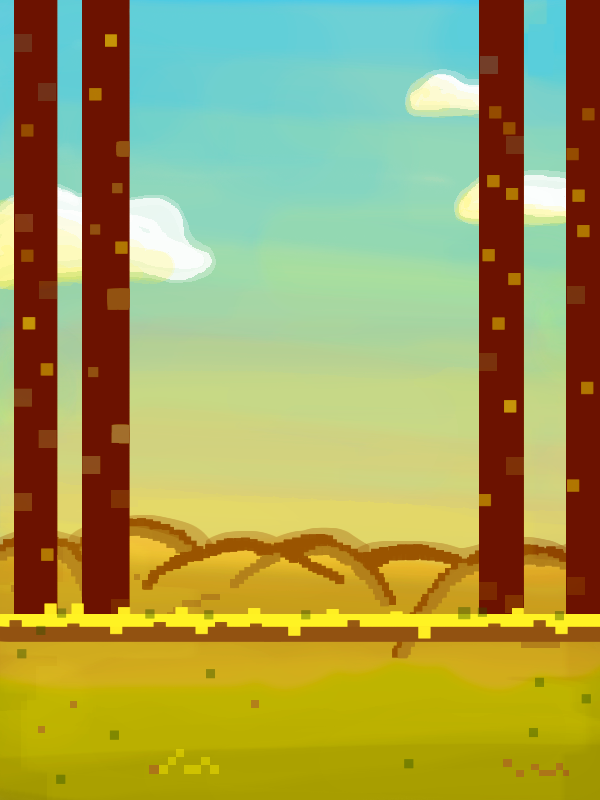
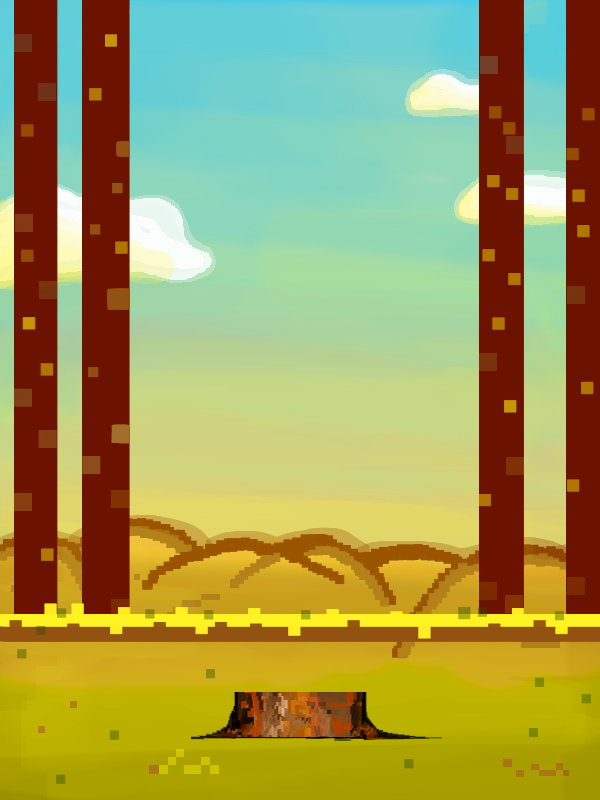
Значительные изменения

Changed region(s): [[0.33, 0.8438, 0.72, 0.9375]]

diff --git a/mainwindow.cpp b/mainwindow.cpp
@@ -13,7 +13,7 @@ MainWindow::MainWindow(QWidget *parent)
     setFixedSize(650, 950);     // фиксируем окно, чтобы было проще с координатами
     timerPaint=new QTimer;
     connect(timerPaint,SIGNAL(timeout()),this,SLOT(Update()));
-    timerPaint->setInterval(0.00000000005);
+    timerPaint->setInterval(20);
     timerPaint->start();
     timberman = new Timberman(980);
     tree=new Tree(650,980);
@@ -32,72 +32,22 @@ void MainWindow::keyPressEvent(QKeyEvent *event)
     {
         switch(event->key()){
             case (Qt::Key_Left):{
-                cut_left();
+                LeftORRight=true;
+                ProvGameOver();
+                tree->deleteTrunk(LeftORRight);
+                ProvGameOver();
                 break;
             }
             case (Qt::Key_Right):{
-                cut_right();
+                LeftORRight=false;
+                ProvGameOver();
+                tree->deleteTrunk(LeftORRight);
+                ProvGameOver();
                 break;
             }
         }
-        ProvGameOver();
-        tree->deleteTrunk();
-        ProvGameOver();
         repaint();
     }
-}
-
-void MainWindow::cut_left()
-{
-    LeftORRight=true;
-//    перемещаемся влево
-//    QThread::msleep(100) здесь и далее - задержка в 100 мсек, чтобы действие было заметно
-//    (можно еще уменьшить)
-    timberman->setIm(QPixmap(":/images/drovosek1_lev.png"));
-    timberman->setX(timberman->getIm().width()-indentTree);
-    repaint();
-    QThread::msleep(interval);
-
-//    замахиваемся
-    timberman->setIm(QPixmap(":/images/drovosek2_lev.png"));
-    repaint();
-    QThread::msleep(interval);
-
-//    рубим
-    timberman->setIm(QPixmap(":/images/drovosek3_lev.png"));
-    repaint();
-    QThread::msleep(interval);
-
-//    исходное состояние
-    timberman->setIm(QPixmap(":/images/drovosek1_lev.png"));
-    repaint();
-
-}
-
-void MainWindow::cut_right()
-{
-    LeftORRight=false;
-//    перемещаемся вправо
-//    вычитаем 3 ширины картики(т.к пока она 110*110) т.е -330
-    timberman->setIm(QPixmap(":/images/drovosek1_prav.png"));
-    timberman->setX(MainWindow::size().width() - 3*timberman->getIm().width()+indentTree);
-    repaint();
-    QThread::msleep(interval);
-
-//    замахиваемся
-    timberman->setIm(QPixmap(":/images/drovosek2_prav.png"));
-    repaint();
-    QThread::msleep(interval);
-
-//    рубим
-    timberman->setIm(QPixmap(":/images/drovosek3_prav.png"));
-    repaint();
-    QThread::msleep(interval);
-
-//    исходное положение
-    timberman->setIm(QPixmap(":/images/drovosek1_prav.png"));
-    repaint();
-
 }
 
 void MainWindow::paintEvent(QPaintEvent *event)
@@ -118,6 +68,7 @@ void MainWindow::ProvGameOver()
             {
                 qDebug("game over  %d",++gameOver);
                 timberman->setIm(QPixmap(":Rip/Images/rip_lev.png"));
+                timerPaint->stop();
             }
             break;
         }
@@ -127,6 +78,7 @@ void MainWindow::ProvGameOver()
             {
                 qDebug("game over  %d",++gameOver);
                 timberman->setIm(QPixmap(":Rip/Images/rip_prav.png"));
+                timerPaint->stop();
             }
             break;
         }
@@ -135,6 +87,80 @@ void MainWindow::ProvGameOver()
 
 void MainWindow::Update()
 {
+    if (tree->getRybTree())
+    {
+        if (LeftORRight)
+        {
+            switch(timberman->getSost())
+            {
+                //    перемещаемся влево
+                case 0:
+                {
+                    timberman->setIm(QPixmap(":/images/drovosek1_lev.png"));
+                    timberman->setX(timberman->getIm().width()-indentTree);
+                    repaint();
+                    break;
+                }
+                //    замахиваемся
+                case 1:
+                {
+                    timberman->setIm(QPixmap(":/images/drovosek2_lev.png"));
+                    repaint();
+                    break;
+                }
+                //    рубим
+                case 2:
+                {
+                    timberman->setIm(QPixmap(":/images/drovosek3_lev.png"));
+                    repaint();
+                    break;
+                }
+                //    исходное положение
+                case 3:
+                {
+                    timberman->setIm(QPixmap(":/images/drovosek1_lev.png"));
+                    repaint();
+                    break;
+                }
+            }
+        }
+        else
+        {
+            switch(timberman->getSost())
+            {
+                //    перемещаемся вправо
+                case 0:
+                {
+                    timberman->setIm(QPixmap(":/images/drovosek1_prav.png"));
+                    timberman->setX(650 - 3*timberman->getIm().width()+indentTree);
+                    repaint();
+                    break;
+                }
+                 //    замахиваемся
+                case 1:
+                {
+                    timberman->setIm(QPixmap(":/images/drovosek2_prav.png"));
+                    repaint();
+                    break;
+                }
+                //    рубим
+                case 2:
+                {
+                    timberman->setIm(QPixmap(":/images/drovosek3_prav.png"));
+                    repaint();
+                    break;
+                }
+                //    исходное положение
+                case 3:
+                {
+                    timberman->setIm(QPixmap(":/images/drovosek1_prav.png"));
+                    repaint();
+                    break;
+                }
+            }
+        }
+        timberman->UPsost();
+    }
     tree->DownTree();
     repaint();
 }

diff --git a/tree.cpp b/tree.cpp
@@ -58,16 +58,29 @@ Tree::Tree(int with, int heigh)
 //отрисовка дерева состоящего из стволов
 void Tree::picture(QPainter *p)
 {
+    QPainter *p0=p;
     for (int i=0;i<NumberTrunk;i++)
     {
         p->drawImage(QRect(tr[i].x-tr[i].sizeWith/2,tr[i].y-tr[i].sizeHeigh/2,tr[i].sizeWith,tr[i].sizeHeigh),tr[i].img);
+        if (i<Qtr.length())
+        {
+            p->translate(Qtr[i].x-Qtr[i].sizeWith/2,Qtr[i].y-Qtr[i].sizeHeigh/2);
+            p->rotate(Qtr[i].Ygol);
+            p->drawImage(QRect(0,0,Qtr[i].sizeWith,Qtr[i].sizeHeigh),Qtr[i].img);
+            p->rotate(-Qtr[i].Ygol);
+            p->translate(-(Qtr[i].x-Qtr[i].sizeWith/2),-(Qtr[i].y-Qtr[i].sizeHeigh/2));
+            if (Qtr[i].Ygol>60)Qtr[i].Ygol=0; else Qtr[i].Ygol+=10;
+        }
     }
+    p=p0;
 }
 
 //удаление нижнего ствола и переприсваивание последующих стволов
-void Tree::deleteTrunk()
+void Tree::deleteTrunk(bool LeftRight)
 {
     zapY=tr[0].y;
+    tr[0].LeftRight=LeftRight;
+    Qtr.append(tr[0]);
     for (int i=0;i<NumberTrunk-1;i++)
     {
         tr[i].x=tr[i+1].x;
@@ -126,6 +139,14 @@ void Tree::DownTree()
                     }
             }
         else RybTree=false; //снова не срубленно
+    }
+    int i=0;
+    while (i<Qtr.length())
+    {
+        if (!Qtr[i].LeftRight) Qtr[i].x-=20; else Qtr[i].x+=30;
+        Qtr[i].y=int (-(Qtr[i].x)*(Qtr[i].x)*20/(400*400)+20)+750;
+        if (Qtr[i].x>800 || Qtr[i].x<0) Qtr.removeAt(i);
+        else i++;
     }
 
 }

diff --git a/tree.h b/tree.h
@@ -19,7 +19,7 @@ public:
     {
         return tr[i].x;
     }
-    void deleteTrunk(); //Удаление ствола дерева
+    void deleteTrunk(bool LeftRight); //Удаление ствола дерева
     void DownTree(); //cпуск дерева
     bool getRybTree()
     {
@@ -35,10 +35,13 @@ private:
         int sizeWith; //размер ствола по ширине
         int sizeHeigh=140; //размер ствола по высоте
         int typeTree; //тип ствола дерева (0-центральное, 1-ветка слева, 2-ветка справа)
+        int Ygol=0;
+        bool LeftRight=false;//при каком направлении срублено
     };
     int startX; //начальное положение по координате Х
     int indentH=50; //отступ по координате У
     QList <tree> tr; //само дерево
+    QList <tree> Qtr; //очередь на вылет
     int sizeWith1=140; // ширина ствола 0 типа
     int sizeWith2=280; // ширина стволов 2 и 1 типов
     int NumberTrunk; //количество состовляющих стволов

diff --git a/timberman.h b/timberman.h
@@ -16,6 +16,10 @@ public:
 
     int getX() const;
 
+    void UPsost();
+
+    int getSost();
+
 private:
     QPixmap im;         //изображение в png
                         // не использую QImage т.к оно похоже предназанчено для jpg
@@ -26,8 +30,9 @@ private:
                        // можно уменьшить - тогда в дальнейшем будет видно дерево на меньшую высоту
     int SizeWith=220;
     int SizeHeight=220;
-    int indentH=120;
+    int indentH=110;
     int indentTree=20;
+    int sost=0;//нужно для анимации
 };
 
 #endif // TIMBERMAN_H

diff --git a/mainwindow.h b/mainwindow.h
@@ -19,8 +19,6 @@ public:
     ~MainWindow();
 
     void keyPressEvent(QKeyEvent *event);
-    void cut_left();
-    void cut_right();
     void paintEvent(QPaintEvent *event);
     void ProvGameOver();
 

diff --git a/timberman.cpp b/timberman.cpp
@@ -36,3 +36,14 @@ int Timberman::getX() const
 {
     return x;
 }
+
+void Timberman::UPsost()
+{
+    sost++;
+    if (sost>3) sost=0;
+}
+
+int Timberman::getSost()
+{
+    return sost;
+}
